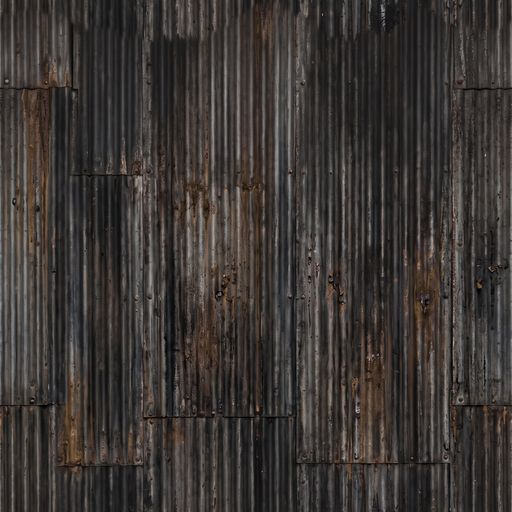
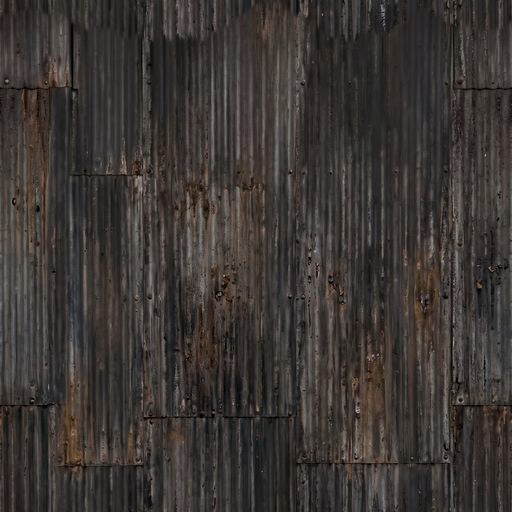
Factory ceiling stripes read softer under the flashlight
Claude-Session: https://claude.ai/code/session_01Hp3PPRWzBxDPqMYTGtr5h7

diff --git a/tools/make_horror_props.py b/tools/make_horror_props.py
@@ -34,6 +34,9 @@ TILES = {
 }
 
 
+STRIPES_KEEP = 0.35
+
+
 def load(name):
     return Image.open(f'{RAW}/{name}.png').convert('RGB')
 
@@ -103,6 +106,11 @@ def ochre(a):
     return out
 
 
+# 손전등 아래서 골판 줄무늬가 너무 튀지 않게 세로줄 밝기 차이를 줄인다. keep: 남길 비율
+def soften_stripes(a, keep):
+    return a - (1 - keep) * (a.mean(axis=0, keepdims=True) - a.mean(axis=(0, 1), keepdims=True))
+
+
 def to_linear(c):
     c = c / 255
     return np.where(c <= 0.04045, c / 12.92, ((c + 0.055) / 1.055) ** 2.4)
@@ -121,6 +129,8 @@ def tile(name, size, plain, part):
     a = flatten(a, size / 4)
     if name.startswith('ceil'):
         a = ochre(a)
+    if name == 'ceil_factory':
+        a = soften_stripes(a, STRIPES_KEEP)
     over = side - size
     a = wrap_x(a, over, 1.5)
     a = wrap_x(a.transpose(1, 0, 2), over, 1.5).transpose(1, 0, 2)
